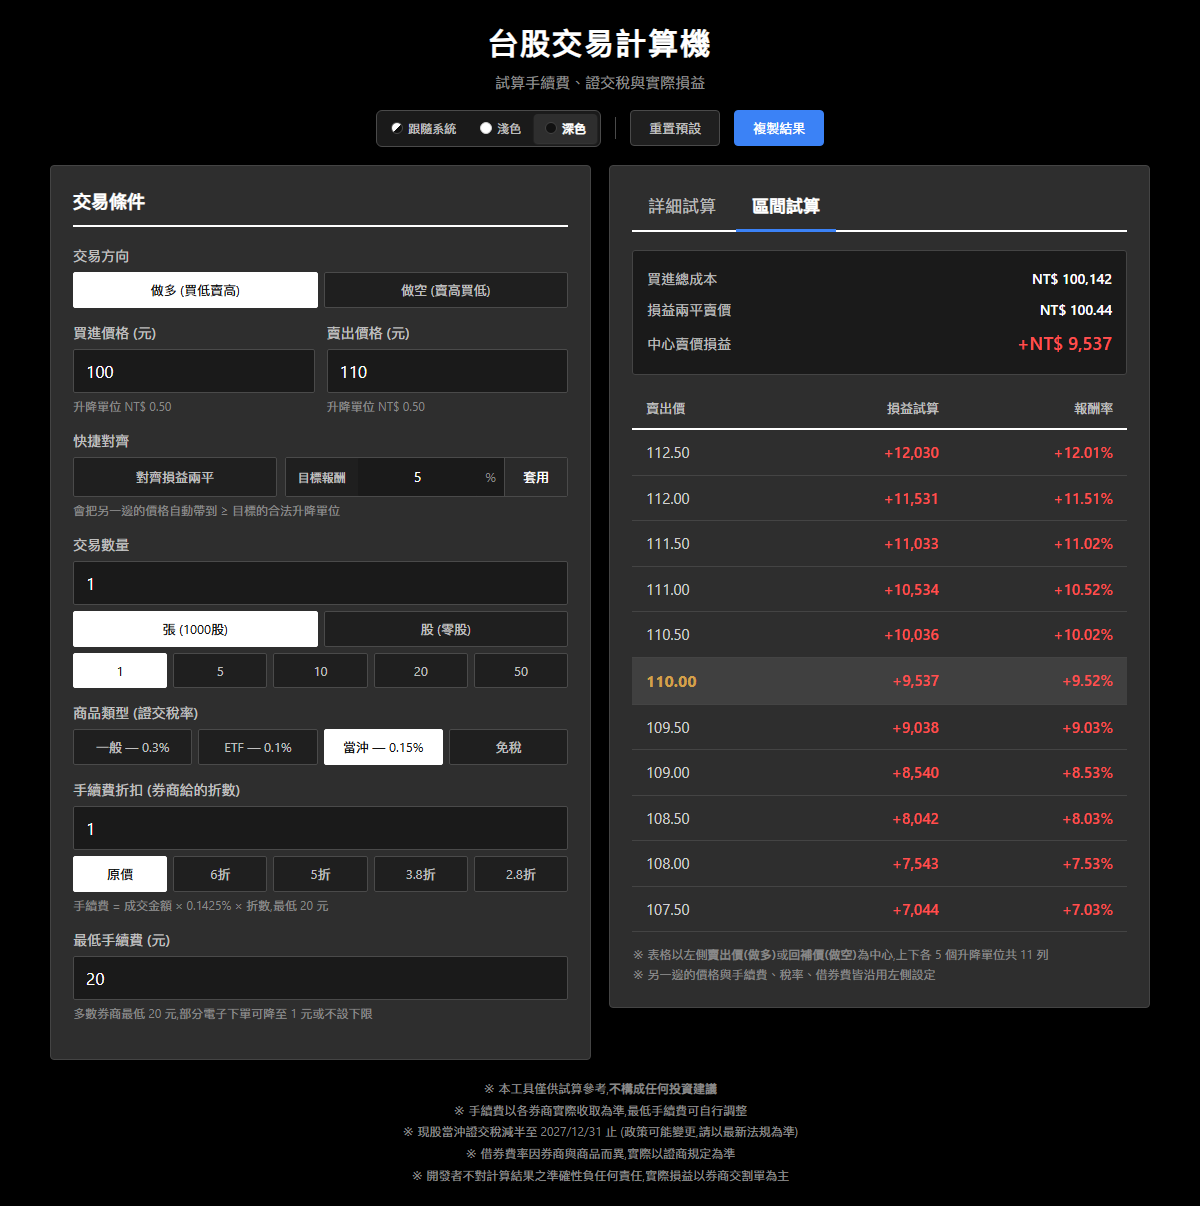
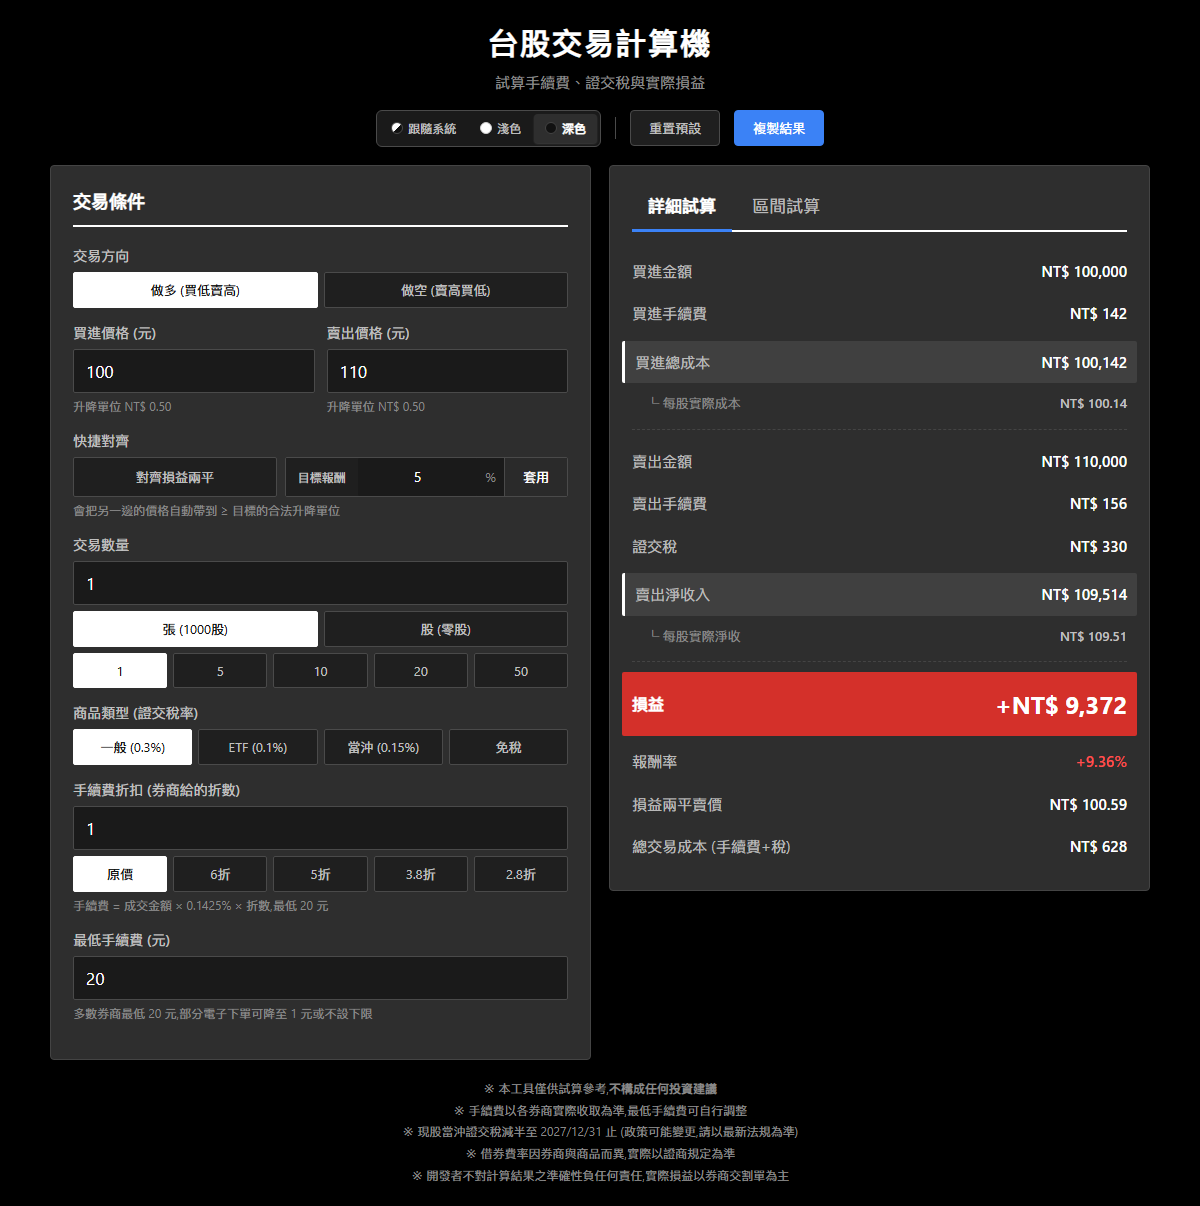
style: 區間試算中心列換暖金色,中心損益改用紅綠醒目區塊
- 摘要中心損益改用 .result-row.big.profit/loss,沿用詳細試算的紅綠
  區塊樣式,獲利/賠錢一眼看出
- 中心列背景從中性灰改成暖金色 (#fff3c4 淺 / #3d3220 深),金色價格
  文字配色也分別針對兩種主題微調
- 移除不再使用的 .range-summary / .range-summary-row CSS

Changed region(s): [[0.4933, 0.2148, 0.9558, 0.859], [0.0617, 0.5829, 0.37, 0.6443], [0.5242, 0.1534, 0.6783, 0.1841]]

diff --git a/index.html b/index.html
@@ -43,6 +43,7 @@
     --bg-card: #ffffff;
     --bg-input: #fafafa;
     --bg-highlight: #f0f0f0;
+    --bg-center-row: #fff3c4;  /* 區間試算中心列 — 暖金色系,呼應金色價格文字 */
     --bg-big: #f5f5f5;
     --bg-btn: #ffffff;
     --bg-btn-hover: #f5f5f5;
@@ -82,6 +83,7 @@
     --bg-card: #2e2e2e;
     --bg-input: #1a1a1a;
     --bg-highlight: #404040;
+    --bg-center-row: #3d3220;  /* 區間試算中心列 — 暖金色系,呼應金色價格文字 */
     --bg-big: #000000;
     --bg-btn: #1f1f1f;
     --bg-btn-hover: #2a2a2a;
@@ -282,12 +284,15 @@
     text-align: left;
   }
   .range-table tbody tr.center {
-    background: var(--bg-highlight);
+    background: var(--bg-center-row);
   }
   .range-table tbody tr.center td:first-child {
-    color: #d4a14a;
+    color: #b8862e;  /* 比金色文字更飽和一點,確保淺色金色背景下仍清楚 */
     font-weight: 700;
     font-size: 16px;
+  }
+  :root[data-theme="dark"] .range-table tbody tr.center td:first-child {
+    color: #f5c451;  /* 深色金色背景下,亮金色文字較清楚 */
   }
   .range-table td.profit-cell { font-weight: 600; }
   .range-table td.profit-cell.gain { color: var(--profit-text); }
@@ -299,30 +304,6 @@
     font-size: 14px;
   }
 
-  /* 區間試算摘要區塊 */
-  .range-summary {
-    background: var(--bg-input);
-    border: 1px solid var(--border-soft);
-    border-radius: 3px;
-    padding: 12px 14px;
-    margin-bottom: 4px;
-  }
-  .range-summary-row {
-    display: flex;
-    justify-content: space-between;
-    align-items: center;
-    padding: 5px 0;
-    font-size: 14px;
-  }
-  .range-summary-row .label { color: var(--text-muted); }
-  .range-summary-row .value {
-    color: var(--text-strong);
-    font-weight: 600;
-    font-variant-numeric: tabular-nums;
-  }
-  .range-summary-row.big .value { font-size: 18px; }
-  .range-summary-row .value.gain-text { color: var(--profit-text); }
-  .range-summary-row .value.lose-text { color: var(--loss-text); }
 
   .card {
     background: var(--bg-card);
@@ -777,16 +758,16 @@
         </div><!-- /tab-content detail -->
 
         <div class="tab-content" data-tab="range" role="tabpanel" hidden>
-          <div class="range-summary">
-            <div class="range-summary-row">
+          <div class="result-section">
+            <div class="result-row">
               <span class="label" id="rangeFixedLabel">買進總成本</span>
               <span class="value" id="rangeFixedValue">-</span>
             </div>
-            <div class="range-summary-row">
+            <div class="result-row">
               <span class="label" id="rangeBreakevenLabel">損益兩平賣價</span>
               <span class="value" id="rangeBreakeven">-</span>
             </div>
-            <div class="range-summary-row big">
+            <div class="result-row big" id="rangeCenterProfitRow">
               <span class="label" id="rangeCenterProfitLabel">中心賣價損益</span>
               <span class="value" id="rangeCenterProfit">-</span>
             </div>
@@ -1176,6 +1157,7 @@
     const elBe = $('rangeBreakeven');
     const elCpLabel = $('rangeCenterProfitLabel');
     const elCp = $('rangeCenterProfit');
+    const elCpRow = $('rangeCenterProfitRow');
     const elPriceLabel = $('rangePriceLabel');
 
     // 動態標籤
@@ -1189,7 +1171,7 @@
       elFixedValue.textContent = '-';
       elBe.textContent = '-';
       elCp.textContent = '-';
-      elCp.className = 'value';
+      elCpRow.className = 'result-row big';
       return;
     }
 
@@ -1231,7 +1213,7 @@
       const cp = centerRow.profit;
       const sign = cp > 0 ? '+' : '';
       elCp.textContent = sign + fmtMoney(cp);
-      elCp.className = 'value ' + (cp > 0 ? 'gain-text' : (cp < 0 ? 'lose-text' : ''));
+      elCpRow.className = 'result-row big ' + (cp >= 0 ? 'profit' : 'loss');
     }
 
     body.innerHTML = rows.map(r => {
